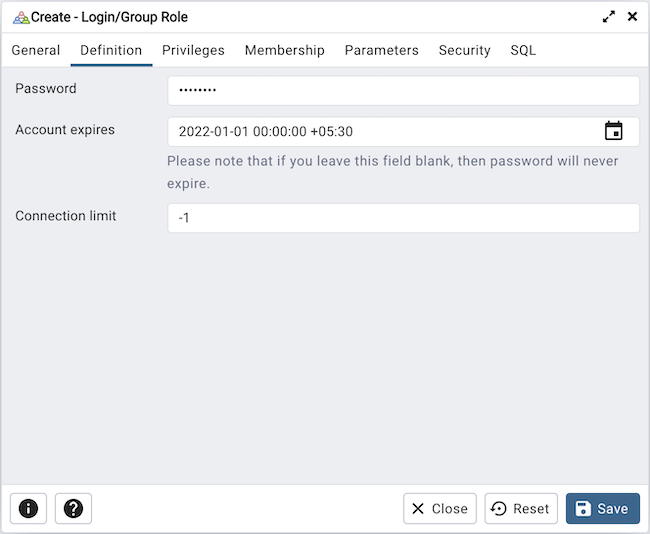
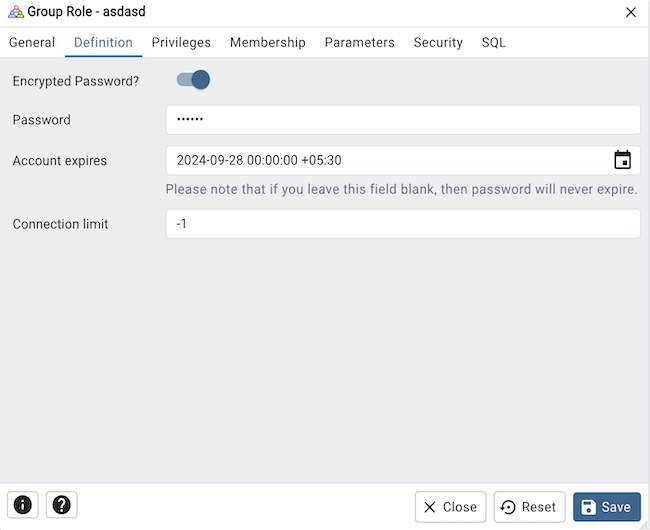
Add an encrypted password for create and edit roles.#2646

diff --git a/web/pgadmin/browser/server_groups/servers/roles/static/js/role.ui.js b/web/pgadmin/browser/server_groups/servers/roles/static/js/role.ui.js
@@ -89,6 +89,11 @@ export default class RoleSchema extends BaseUISchema {
         disabled: obj.readOnly,
       },
       {
+        id: 'rolencryptedpassword', label: gettext('Encrypted Password?'), type: 'switch',
+        group: gettext('Definition'), mode: ['edit', 'create'],
+        deps: ['rolcanlogin'], disabled: obj.readOnly,
+      },
+      {
         id: 'rolpassword', label: gettext('Password'), type: 'password',
         group: gettext('Definition'), mode: ['edit', 'create'],
         control: 'input', deps: ['rolcanlogin'], retype: true,

diff --git a/web/pgadmin/browser/server_groups/servers/roles/__init__.py b/web/pgadmin/browser/server_groups/servers/roles/__init__.py
@@ -677,11 +677,11 @@ rolmembership:{
                     'rolcanlogin', 'rolsuper', 'rolcreatedb',
                     'rolcreaterole', 'rolinherit', 'rolreplication',
                     'rolconnlimit', 'rolvaliduntil', 'rolpassword',
-                    'rolbypassrls'
+                    'rolencryptedpassword', 'rolbypassrls'
                 ] if self.manager.version >= 90200 else [
                     'rolcanlogin', 'rolsuper', 'rolcreatedb',
                     'rolcreaterole', 'rolinherit', 'rolconnlimit',
-                    'rolvaliduntil', 'rolpassword'
+                    'rolvaliduntil', 'rolpassword', 'rolencryptedpassword'
                 ]
 
                 fetch_name, check_permission, \

diff --git a/docs/en_US/role_dialog.rst b/docs/en_US/role_dialog.rst
@@ -31,6 +31,7 @@ Click the *Definition* tab to continue.
 
 Use the *Definition* tab to set a password and configure connection rules:
 
+* If enabled, *Encrypted Password?* will consider the password as encrypted and will use ENCRYPTED keyword.
 * Provide a password that will be associated with the role in the *Password*
   field.
 * Provide an expiration date for the password in the *Account Expires* field
